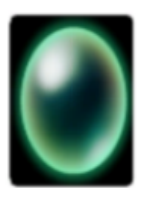
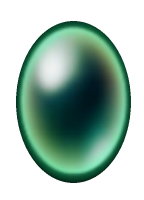
For sjov shield animation

Changed region(s): [[0.0556, 0.06, 0.9444, 0.96]]

diff --git a/WizardLizard/WizardLizard/Spells/LightningStrike.cs b/WizardLizard/WizardLizard/Spells/LightningStrike.cs
@@ -12,15 +12,12 @@ namespace WizardLizard
     class LightningStrike : Component, IUpdateable, ILoadable, IAnimateable, ICollisionEnter, ICollisionExit
     {
         private Transform transform;
-        private int speed;
+        private int speed = 2000;
         private Animator animator;
-        private float visible;
         public LightningStrike(GameObject gameObject) : base(gameObject)
         {
             animator = (Animator)GameObject.GetComponent("Animator");
             transform = gameObject.Transform;
-            visible = 0;
-            speed = 2000;
         }
         public void LoadContent(ContentManager content)
         {
@@ -50,9 +47,13 @@ namespace WizardLizard
                 GameWorld.ObjectsToRemove.Add(this.GameObject);
                 archer.TakeDamage(1);
             }
-            if (other.GameObject.GetComponent("SolidPlatform") != null)
+            if (other.GameObject.GetComponent("SolidPlatform") != null
+                || other.GameObject.GetComponent("Door") != null
+                || other.GameObject.GetComponent("Lever") != null
+                || other.GameObject.GetComponent("MoveableBox") != null
+                || other.GameObject.GetComponent("NonSolidPlatform") != null)
             {
-                GameWorld.Instance.RemoveGameObject(this.GameObject);
+                GameWorld.ObjectsToRemove.Add(this.GameObject);
             }
         }
 
@@ -62,20 +63,7 @@ namespace WizardLizard
         public void Update()
         {
             Vector2 translation = new Vector2(0, 1);
-            //visible++;
-            //if (visible >= 50)
-            //{
-            //    foreach (GameObject go in GameWorld.GameObjects)
-            //    {
-            //        if (go.GetComponent("LightningStrike") != null)
-            //        {
-            //            GameWorld.ObjectsToRemove.Add(go);
-            //            visible = 0;
-            //        }
-            //    }
-            //}
             transform.Translate(translation * GameWorld.DeltaTime * speed);
-
         }
     }
 }

diff --git a/WizardLizard/WizardLizard/Spells/PlayerShield.cs b/WizardLizard/WizardLizard/Spells/PlayerShield.cs
@@ -21,6 +21,7 @@ namespace WizardLizard
         }
         public void Update()
         {
+            animator.PlayAnimation("ShieldAnimation");
             Vector2 translation = Vector2.Zero;
             Vector2 playerPos = new Vector2(GameWorld.PlayerPos.X - 36, GameWorld.PlayerPos.Y - 50);
             if (countdown > 0)
@@ -46,6 +47,7 @@ namespace WizardLizard
         }
         public void LoadContent(ContentManager content)
         {
+            CreateAnimations();
         }
 
         public void OnAnimationDone(string animationName)
@@ -59,10 +61,13 @@ namespace WizardLizard
                 GameWorld.Instance.RemoveGameObject(this.GameObject);
             }
         }
-
         public void OnCollisionExit(Collider other)
         {
         }
-        
+        public void CreateAnimations()
+        {
+            animator.CreateAnimation("ShieldAnimation", new Animation(3, 0, 0, 144, 200, 6, Vector2.Zero));
+            animator.PlayAnimation("ShieldAnimation");
+        }
     }
 }

diff --git a/WizardLizard/WizardLizard/Spells/Fireball.cs b/WizardLizard/WizardLizard/Spells/Fireball.cs
@@ -81,7 +81,7 @@ namespace WizardLizard
 
         public void Update()
         {
-            animator.PlayAnimation("FireballYo");
+            animator.PlayAnimation("Fireball");
             Vector2 translation = Vector2.Zero;
             translation = mousePosition - fireballPos;
 
@@ -96,8 +96,8 @@ namespace WizardLizard
         }
         public void CreateAnimations()
         {
-            animator.CreateAnimation("FireballYo", new Animation(4, 0, 0, 50, 50, 32, Vector2.Zero));
-            animator.PlayAnimation("FireballYo");
+            animator.CreateAnimation("Fireball", new Animation(4, 0, 0, 50, 50, 32, Vector2.Zero));
+            animator.PlayAnimation("Fireball");
         }
         
     }

diff --git a/WizardLizard/WizardLizard/Builder/PlayerShieldBuilder.cs b/WizardLizard/WizardLizard/Builder/PlayerShieldBuilder.cs
@@ -13,7 +13,8 @@ namespace WizardLizard
         public void BuildGameObject(Vector2 position)
         {
             GameObject gameObject = new GameObject();
-            gameObject.AddComponent(new SpriteRenderer(gameObject, "PlayerShield", 1f));
+            gameObject.AddComponent(new SpriteRenderer(gameObject, "PlayerShieldAnimation", 1f));
+            gameObject.AddComponent(new Animator(gameObject));
             gameObject.AddComponent(new Collider(gameObject));
             gameObject.Transform.Position = new Vector2(50, 50);
             gameObject.AddComponent(new PlayerShield(gameObject));
